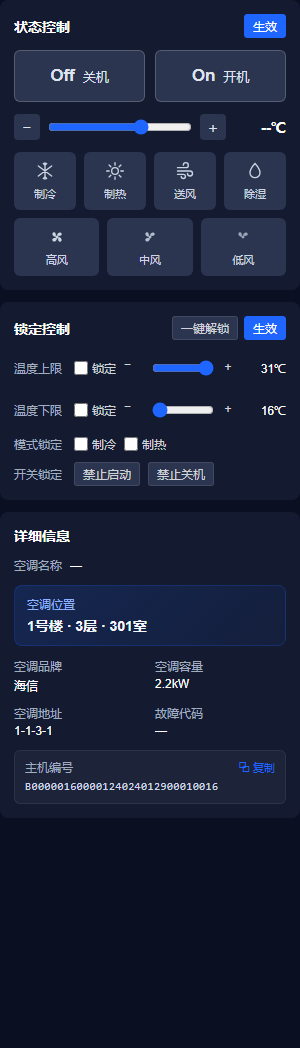
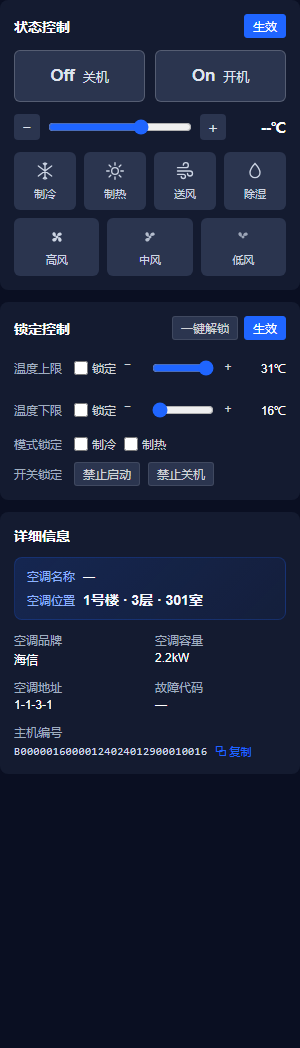
分项目演示数据与验证脚本修复
1. 机队按项目隔离:_fleet.js 以项目名分存(旧全局机队自动迁移),新增 5 个项目种子(物业型:平台测试_新计费/二次分摊-H 仅一个物业租户、房间名即商铺名;常规型:分摊计费-ly/平台测试_后付费/001 公司租户+正常房号),导出 key() 供能耗数据层做项目级缓存失效
2. 预付费/后付费租户页按项目出示例数据(物业型仅物业租户、常规型公司租户),未列名项目回退线上旧口径;空调与房间关系树重建时保留楼栋/楼层展开态
3. 修复一批跑不起来的验证脚本:playwright 依赖统一改 playwright-core + Chrome 通道(原来指向 codex 运行时绝对路径),公区占位/AC 详情合并卡/NEW 徽标等断言对齐当前页面实现,租户筛选与阈值、R7 用例样本数据更新,基准截图同步更新

Changed region(s): [[0.03, 0.5191, 0.72, 0.7634], [0.72, 0.7023, 0.9, 0.7328], [0.93, 0.5802, 0.96, 0.6107]]

diff --git a/pages/_fleet.js b/pages/_fleet.js
@@ -1,17 +1,27 @@
 /* ============================================================
    共享机队数据源(_fleet.js)
    空调与房间关系(device-ac-room) ↔ 空调控制(ctrl-ac) 联动核心:
-   - 唯一权威机队:620 台内机(楼栋/楼层/房间/内机地址/内机标识名称/容量/租户/绑定态)
-   - localStorage 持久化:绑定/解绑/标识名称/容量/租户/新建建筑 修改即时写入
+   - 机队按项目隔离:以 fyProj 项目名为 key 分存,壳层切换项目后各页即得本项目机队
+   - 两类租户示例风格:
+     物业型(平台测试_新计费/二次分摊-H):项目内仅一个物业租户,房间名即租户名(商铺)
+     常规型(其余项目):租户为公司名,房间为正常房号
+   - localStorage 持久化:绑定/解绑/标识名称/容量/租户/新建建筑 修改即时写入(按项目各自存取)
    - 两页加载时读取同一份数据,天然保持对应同步
    ============================================================ */
 window.HvacFleet=(function(){
   const KEY='hvacFleetV2';
+  const DEFAULT_PROJECT='产品部测试-按小时预付费';
   const FLOORS=[3,7,9,14,23];
 
-  /* 默认机队:与空调控制页楼层分布一致(3/7/9/14/23 层,每层 124 台,共 620)
+  function projName(){
+    try{const p=JSON.parse(localStorage.getItem('fyProj')||'null');if(p&&p.name)return p.name;}catch(e){}
+    return DEFAULT_PROJECT;
+  }
+  function storeKey(){return KEY+':'+projName();}
+
+  /* 默认机队(产品部测试-按小时预付费):与空调控制页楼层分布一致(3/7/9/14/23 层,每层 124 台,共 620)
      内机标识名称默认空(现网常态:大部分不设定) */
-  function gen(){
+  function genDefault(){
     const units=[];let n=0;
     FLOORS.forEach(fl=>{
       for(let i=1;i<=124&&units.length<620;i++){
@@ -31,15 +41,90 @@ window.HvacFleet=(function(){
     return units;
   }
 
+  /* 各项目机队种子:
+     property  → 物业型:全部内机挂在唯一物业租户下,房间名即租户名
+     tenants   → 常规型:按房间轮转分配公司租户,空串表示该房间暂未分配租户 */
+  const SEEDS={
+    '平台测试_新计费':{
+      property:'恒信物业',
+      buildings:[{bld:'A座',floors:[
+        {fl:1,rooms:['晨光咖啡','每日便利店','鲜果茶饮','优品生活馆','康正大药房','快剪美发','川味火锅','拾光书店'],units:3},
+        {fl:2,rooms:['型动健身','妈咪宝贝','樱花美甲','乐学培训','宠物生活馆','数码潮品','美妆集合店','茶艺馆'],units:3},
+        {fl:3,rooms:['星聚影院','电玩城','儿童乐园','量贩KTV','台球俱乐部','美食广场'],units:4}
+      ]}]
+    },
+    '二次分摊-H':{
+      property:'恒安物业',
+      buildings:[{bld:'H座',floors:[
+        {fl:1,rooms:['邻里超市','一路飘香餐饮','悦读咖啡','口腔诊所','房产中介','花间花店','麦香烘焙'],units:3},
+        {fl:2,rooms:['24小时健身','绘本馆','明亮眼镜','手机快修','洁净干洗','图文快印'],units:3}
+      ]}]
+    },
+    '分摊计费-ly':{
+      tenants:['蓝海科技','云启信息','恒润贸易','博雅咨询',''],
+      buildings:[
+        {bld:'1号楼',floors:[{fl:5,rooms:20,units:3},{fl:6,rooms:20,units:3}]},
+        {bld:'2号楼',floors:[{fl:3,rooms:16,units:3},{fl:4,rooms:16,units:3}]}
+      ]
+    },
+    '平台测试_后付费':{
+      tenants:['晨曦广告','众合律所','大成装饰','优选电商',''],
+      buildings:[{bld:'1号楼',floors:[{fl:2,rooms:16,units:3},{fl:3,rooms:16,units:3},{fl:5,rooms:16,units:3}]}]
+    },
+    '001':{
+      tenants:['启明工作室','远航物流',''],
+      buildings:[{bld:'1号楼',floors:[{fl:1,rooms:10,units:2},{fl:2,rooms:10,units:2}]}]
+    }
+  };
+
+  function genSpec(spec){
+    const units=[];let n=0;
+    spec.buildings.forEach(b=>{
+      b.floors.forEach(f=>{
+        const names=Array.isArray(f.rooms)?f.rooms:Array.from({length:f.rooms},(_,i)=>String(f.fl*100+i+1));
+        names.forEach((room,ri)=>{
+          const count=f.units||3;
+          const tenant=spec.property?spec.property:(spec.tenants[ri%spec.tenants.length]||'');
+          for(let k=0;k<count;k++){
+            units.push({
+              uid:n,bld:b.bld,fl:f.fl,room,
+              addr:`${1+n%2}-${1+n%3}-${f.fl<10?f.fl:f.fl+16}-${1+n%8}`,
+              name:'',
+              cap:[70,45,56,70][n%4],
+              capKw:['2.2kW','2.8kW','3.6kW'][n%3],
+              tenant,
+              bound:true
+            });
+            n++;
+          }
+        });
+      });
+    });
+    /* 每个项目留 2 台未绑定示例 */
+    if(units.length>2){units[units.length-1].bound=false;units[units.length-2].bound=false;}
+    return units;
+  }
+
+  function gen(name){return SEEDS[name]?genSpec(SEEDS[name]):genDefault();}
+
   function load(){
     try{
-      const d=JSON.parse(localStorage.getItem(KEY)||'null');
+      const d=JSON.parse(localStorage.getItem(storeKey())||'null');
       if(d&&Array.isArray(d.units)&&d.units.length)return d;
+      /* 旧版全局机队仅归属于默认项目,首次访问时迁移一次 */
+      if(projName()===DEFAULT_PROJECT){
+        const legacy=JSON.parse(localStorage.getItem(KEY)||'null');
+        if(legacy&&Array.isArray(legacy.units)&&legacy.units.length){
+          const store={units:legacy.units,extra:legacy.extra||[]};
+          try{localStorage.setItem(storeKey(),JSON.stringify(store));localStorage.removeItem(KEY);}catch(e){}
+          return store;
+        }
+      }
     }catch(e){}
-    return {units:gen(),extra:[]};                   /* extra:新建的空建筑节点 [{bld,fl,room}] */
+    return {units:gen(projName()),extra:[]};         /* extra:新建的空建筑节点 [{bld,fl,room}] */
   }
   function save(store){
-    try{localStorage.setItem(KEY,JSON.stringify({units:store.units,extra:store.extra||[]}));}catch(e){}
+    try{localStorage.setItem(storeKey(),JSON.stringify({units:store.units,extra:store.extra||[]}));}catch(e){}
   }
 
   /* 建筑树:机队 bld/fl/room 聚合 + 新建空节点,输出 [{name,type,children}] 三级 */
@@ -61,5 +146,5 @@ window.HvacFleet=(function(){
     })).sort((a,b2)=>a.name.localeCompare(b2.name,'zh-Hans-CN',{numeric:true}));
   }
 
-  return {load,save,tree,FLOORS};
+  return {load,save,tree,FLOORS,key:storeKey,gen};
 })();

diff --git a/pages/elec-nb-tenant.html b/pages/elec-nb-tenant.html
@@ -160,10 +160,42 @@
 
 <script src="_ui.js"></script>
 <script>
-/* ── 模拟数据(对齐线上"平台测试_新计费":999/A座-1~8/公区 + 测试A座N层租户联系人,正余额,7户低于阈值100) ── */
+/* ── 模拟数据(按项目出示例:物业型项目仅一个物业租户,房间名即租户名;常规型项目为公司租户;
+     未列名项目回退线上"平台测试_新计费"旧口径:999/A座-1~8/公区 + 低余额 B座) ── */
+const PROJ_NAME=(()=>{try{const p=JSON.parse(localStorage.getItem('fyProj')||'null');if(p&&p.name)return p.name;}catch(e){}return '平台测试_新计费';})();
+const TENANT_SEEDS={
+  '平台测试_新计费':[
+    ['999','999','102.00','2026-07-27 16:50:58'],
+    ['恒信物业','王经理','8652.40','2025-09-15 10:30:17'],
+    ['公区','公区','10000.00','2026-07-03 13:10:13'],
+  ],
+  '二次分摊-H':[
+    ['恒安物业','李经理','5320.75','2025-11-06 09:12:40'],
+    ['公区','公区','10000.00','2026-07-03 13:10:13'],
+  ],
+  '产品部测试-按小时预付费':[
+    ['产品部','王芳','4820.60','2025-09-15 10:30:17'],
+    ['飞奕','陈静','3150.00','2025-09-15 10:33:54'],
+    ['公区','公区','10000.00','2026-07-03 13:10:13'],
+  ],
+  '分摊计费-ly':[
+    ['蓝海科技','王芳','9653.52','2025-09-15 10:30:17'],
+    ['云启信息','李建国','2998.25','2025-09-15 10:33:54'],
+    ['恒润贸易','','88.00','2026-07-03 16:10:57'],
+    ['博雅咨询','','300.69','2026-07-03 16:11:03'],
+    ['公区','公区','10000.00','2026-07-03 13:10:13'],
+  ],
+  '平台测试_后付费':[
+    ['晨曦广告','张伟','6201.10','2025-12-11 14:02:33'],
+    ['众合律所','','1560.00','2026-01-19 09:44:21'],
+    ['大成装饰','','45.50','2026-07-03 16:11:03'],
+    ['优选电商','刘敏','9992.50','2026-07-03 16:11:09'],
+    ['公区','公区','10000.00','2026-07-03 13:10:13'],
+  ],
+};
 const TENANTS=(()=>{
   const rows=[];
-  const defs=[
+  const defs=TENANT_SEEDS[PROJ_NAME]||[
     ['999','999','102.00','2026-07-27 16:50:58'],
     ['A座-1','测试A座1层的租户','9653.52','2025-09-15 10:30:17'],
     ['A座-2','测试A座2层的租户','2998.25','2025-09-15 10:33:54'],
@@ -179,8 +211,8 @@ const TENANTS=(()=>{
     id:i+1,name:d[0],contact:d[1],bal:d[2],crtTime:d[3],
     modTime:'2026-07-28 13:50:'+String(30-i%5).padStart(2,'0'),charged:i!==0
   }));
-  /* 低余额租户:补足线上"7 户低于阈值 100"告警 */
-  for(let i=0;i<4;i++)rows.push({
+  /* 低余额租户:补足线上"7 户低于阈值 100"告警(仅未列名项目的兜底种子保留) */
+  if(!TENANT_SEEDS[PROJ_NAME])for(let i=0;i<4;i++)rows.push({
     id:11+i,name:'B座-'+(i+1),contact:'',bal:(12.5+i*20).toFixed(2),
     crtTime:'2026-07-03 16:1'+i+':00',modTime:'2026-07-28 13:50:30',charged:false
   });

diff --git a/pages/elec-tenant.html b/pages/elec-tenant.html
@@ -235,7 +235,7 @@ if(!PRE)document.querySelectorAll('.pre-only').forEach(el=>el.style.display='non
 
 /* ── 模拟数据 ──
    预付费:对齐线上截图(会议室类租户,共37条,含负余额)
-   后付费:对齐线上(数字型租户名、余额0.00、同批创建时间,共621条) */
+   后付费:按项目出示例(物业型项目仅一个物业租户;常规型项目为公司租户),未列名项目保持线上数字型口径(共621条) */
 const fmt2=v=>(+v).toFixed(2);
 /* 项目全局默认阈值:未单独配置(custom)的租户使用此值 */
 let DEF_TH={remind:100,lock:0,lockOn:true};
@@ -271,6 +271,22 @@ if(PRE){
 }else{
   const CRT='2025-06-24 16:48:25';
   const CONTACTS=['','','','','','','','','','','王芳','李建国','张伟','刘敏','陈静'];
+  /* 分项目租户示例:物业型项目仅一个物业租户(房间名即租户名);常规型项目为公司租户;未列名项目保持线上数字型口径 */
+  const NAMED={
+    '平台测试_新计费':['恒信物业','公区'],
+    '二次分摊-H':['恒安物业','公区'],
+    '分摊计费-ly':['蓝海科技','云启信息','恒润贸易','博雅咨询','公区'],
+    '平台测试_后付费':['晨曦广告','众合律所','大成装饰','优选电商','公区'],
+    '001':['启明工作室','远航物流','公区']
+  };
+  if(NAMED[PROJ.name]){
+    TENANTS=NAMED[PROJ.name].map((n,i)=>({
+      id:nextTenantId(),name:n,
+      contact:n==='公区'?'公区':CONTACTS[10+(i%5)],
+      balance:i===0?222.00:0,
+      records:[],rooms:[],crt:CRT,upd:CRT
+    }));
+  }else{
   TENANTS=(()=>{
     const names=['1','10'];
     for(let f=10;f<=39;f++)for(let r=1;r<=20;r++)names.push(''+(f*100+r));
@@ -285,6 +301,7 @@ if(PRE){
       crt:CRT,upd:CRT
     }));
   })();
+  }
 }
 
 /* ── 表头(预付费含阈值列) ── */

diff --git a/pages/device-ac-room.html b/pages/device-ac-room.html
@@ -215,7 +215,11 @@ function setSeg(v){
   renderTree();
 }
 function renderTree(){
+  /* 重建前保留楼栋/楼层展开态(公区标记切换、增删节点后树不塌) */
+  const openBlds=new Set(),openFls=new Set();
+  if(Array.isArray(TREE))TREE.forEach(b=>{if(b.open)openBlds.add(b.name);b.children.forEach(f=>{if(f.open)openFls.add(b.name+'|'+f.name);});});
   TREE=window.HvacFleet.tree(store);
+  TREE.forEach(b=>{b.open=openBlds.has(b.name);b.children.forEach(f=>{f.open=openFls.has(b.name+'|'+f.name);});});
   refreshBoundRooms();
   const tb=document.getElementById('treeBody');
   const rows=[];
